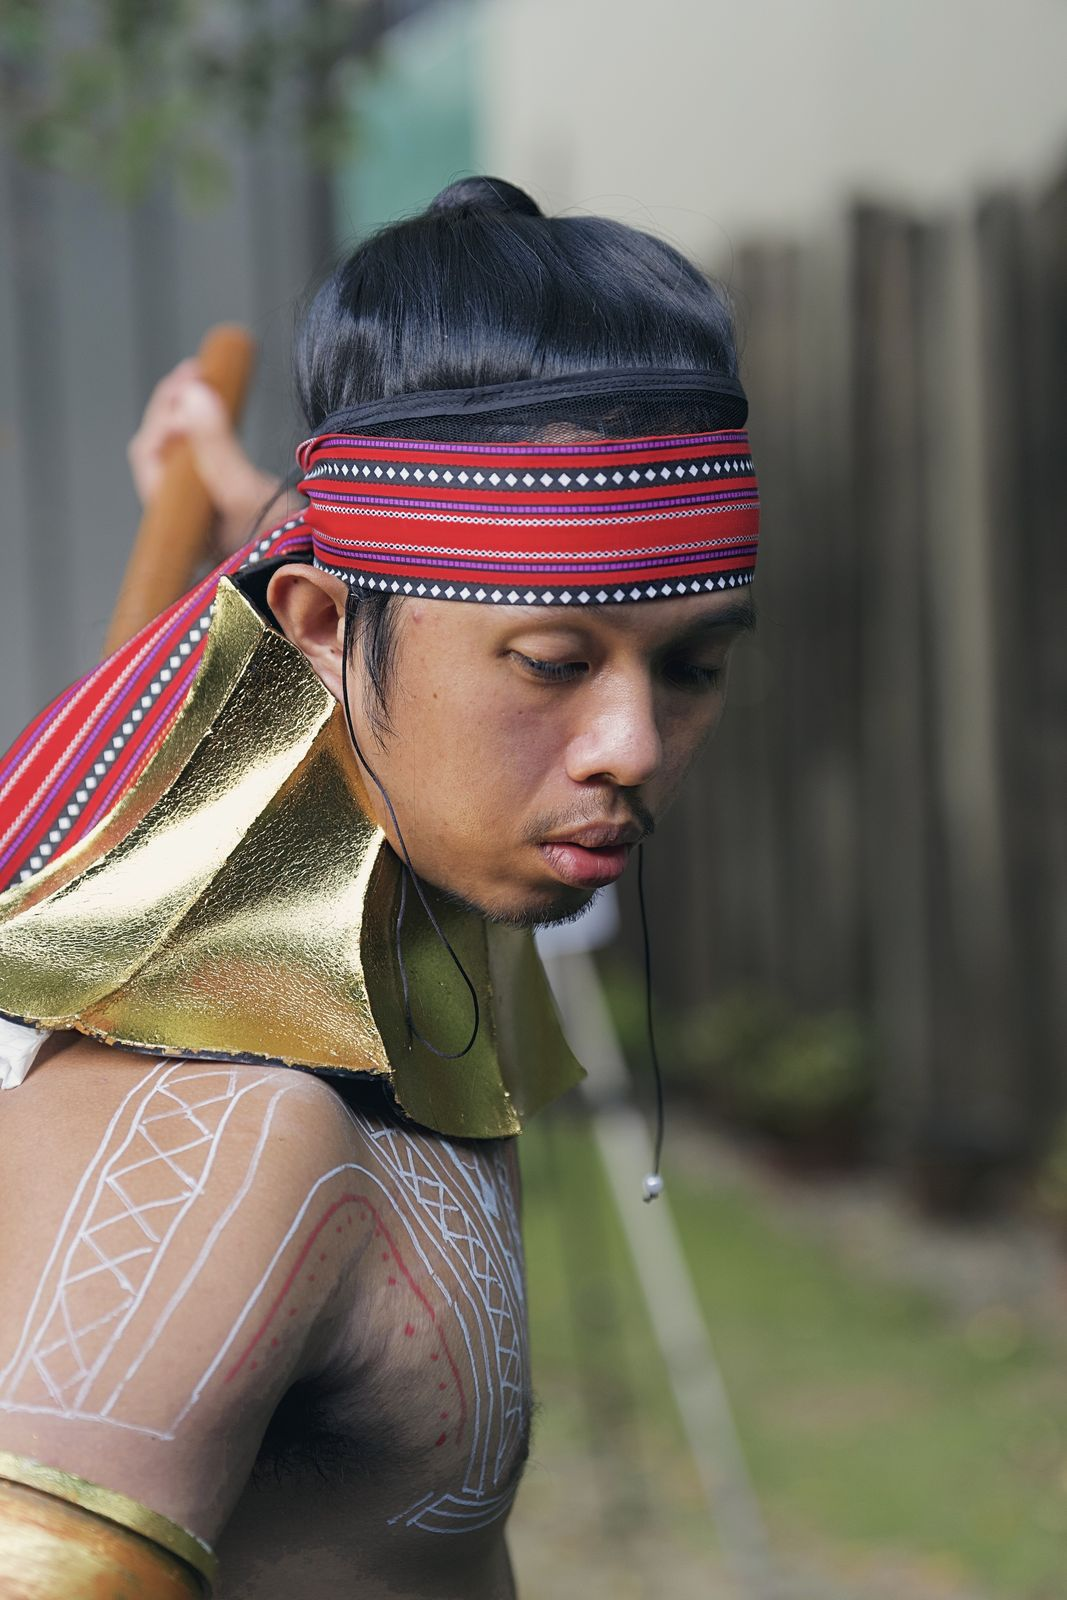
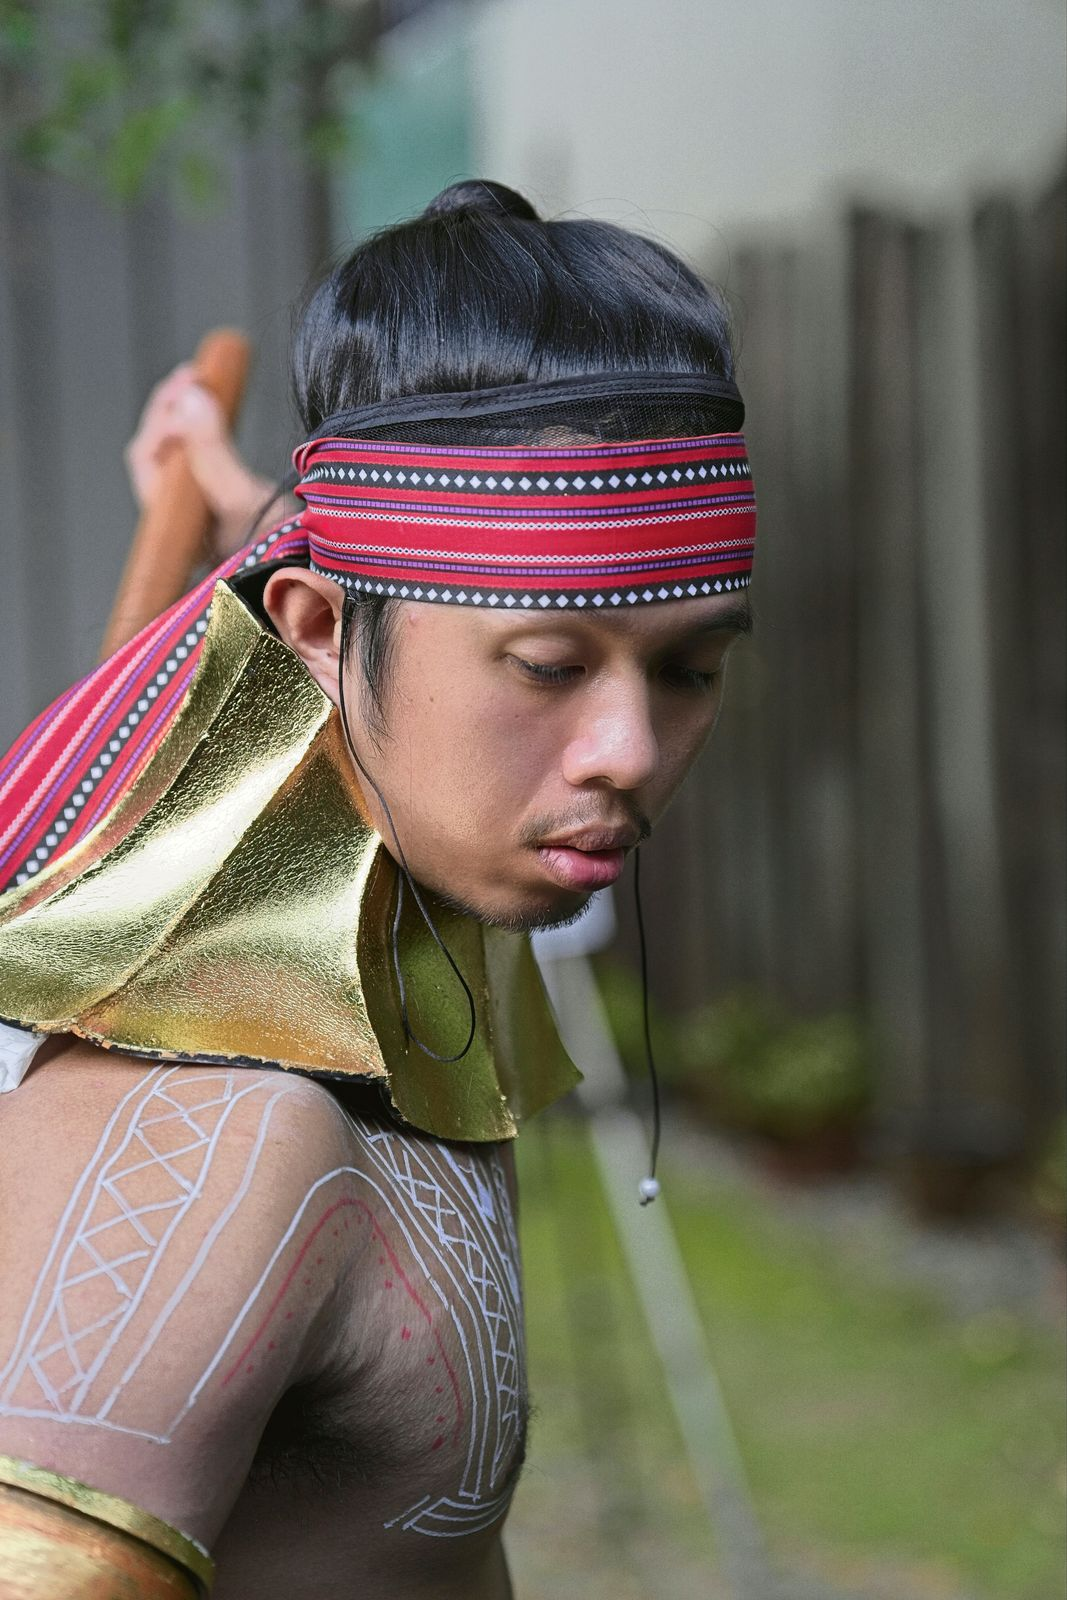
Add 13 ON1 edits to the Vol. 8 gallery and always load the latest photo list
Adds every photo from the KSS Export (ON1) folders that wasn't already in
the gallery, colour-matched to the rest of the set: 5 Arrival & briefing,
2 Lakapati, 4 Bathala, 2 Sketchers. RTM04525 and RTM04562 now use their
ON1 edits. The gallery has 92 photos.

The photo list is now fetched with cache: "no-cache", so added or removed
photos show up right after a deploy instead of after the ~10 minute
GitHub Pages cache.

diff --git a/gallery/index.html b/gallery/index.html
@@ -198,7 +198,9 @@ async function loadVolume(v) {
   $("volMeta").innerHTML = v.meta.map(m => `<span>${m}</span>`).join("");
   $("vols").hidden = VOLUMES.length < 2;   // the volume tabs appear once a second volume is added
   $("vols").innerHTML = VOLUMES.map(x => `<button type="button" class="vol" data-vol="${x.id}" aria-pressed="${x === v}">${x.tab}</button>`).join("");
-  data = await fetch(base(v) + "photos.json").then(r => r.json());
+  // "no-cache" checks with the server every visit (a quick 304 when nothing changed), so added or
+  // removed photos show up right after a deploy instead of after the ~10 min GitHub Pages cache
+  data = await fetch(base(v) + "photos.json", { cache: "no-cache" }).then(r => r.json());
   const count = s => data.photos.filter(p => p.s === s).length;
   $("chips").innerHTML =
     `<button type="button" class="chip" data-f="all" aria-pressed="true">All <small>${data.photos.length}</small></button>` +
